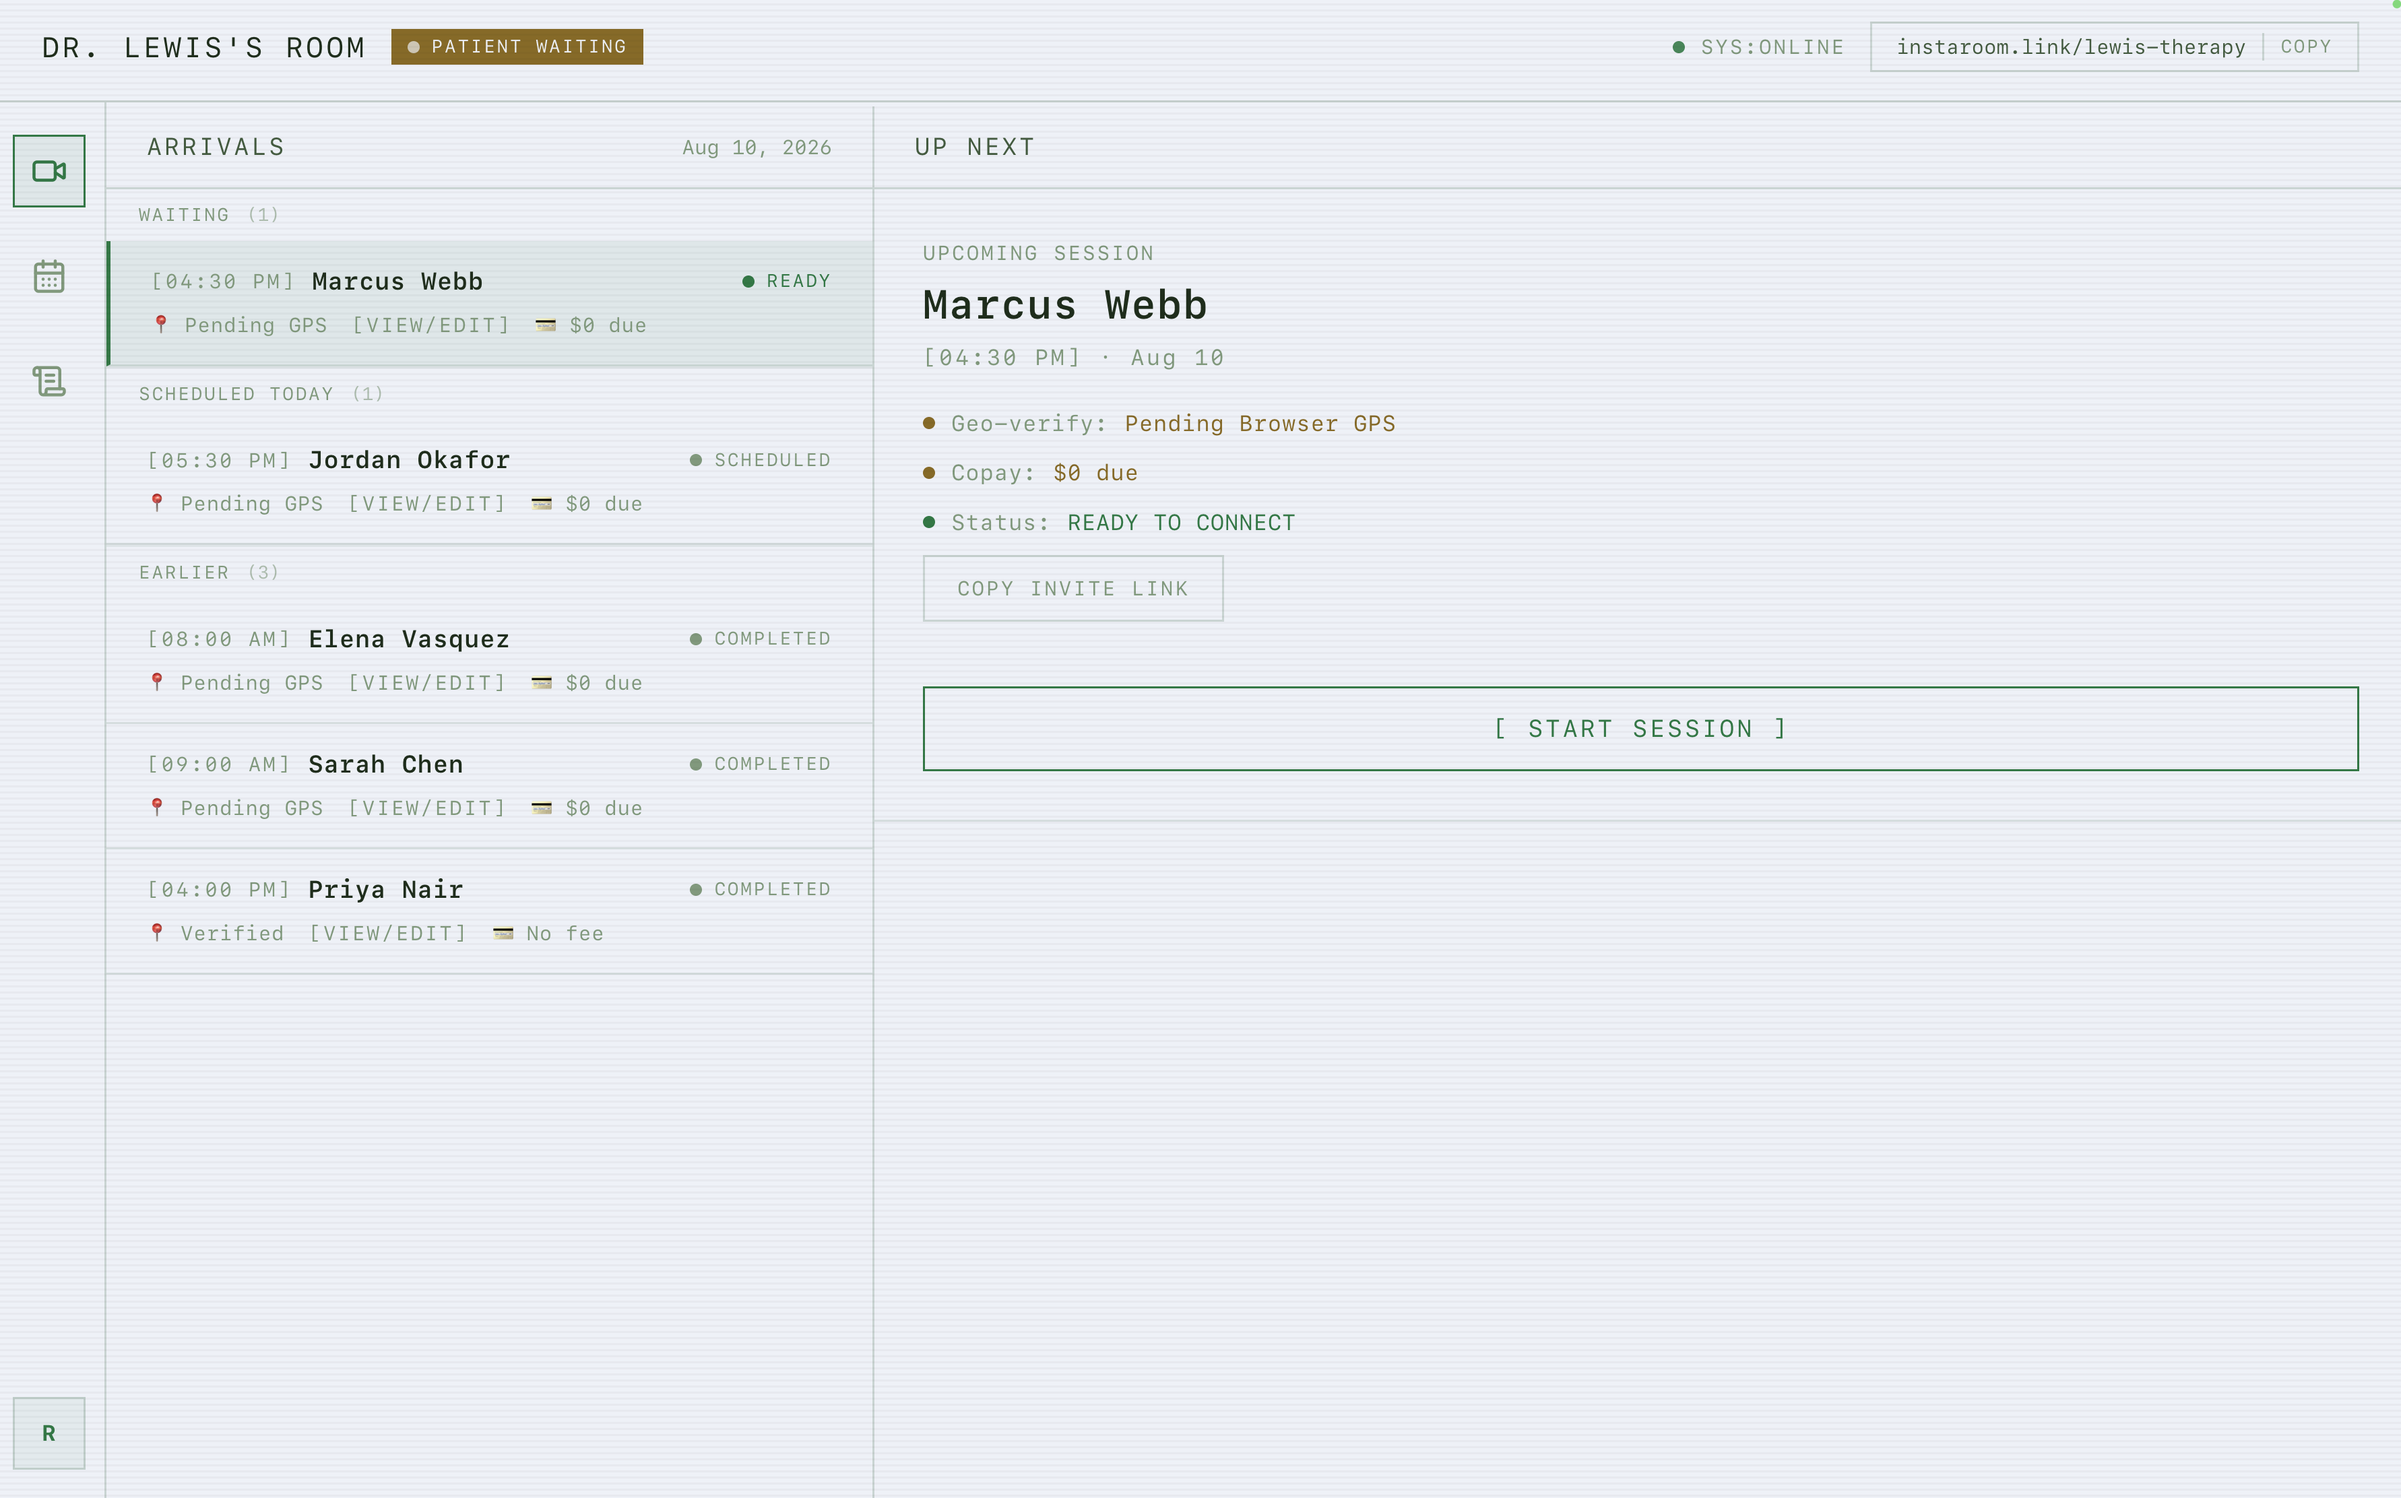
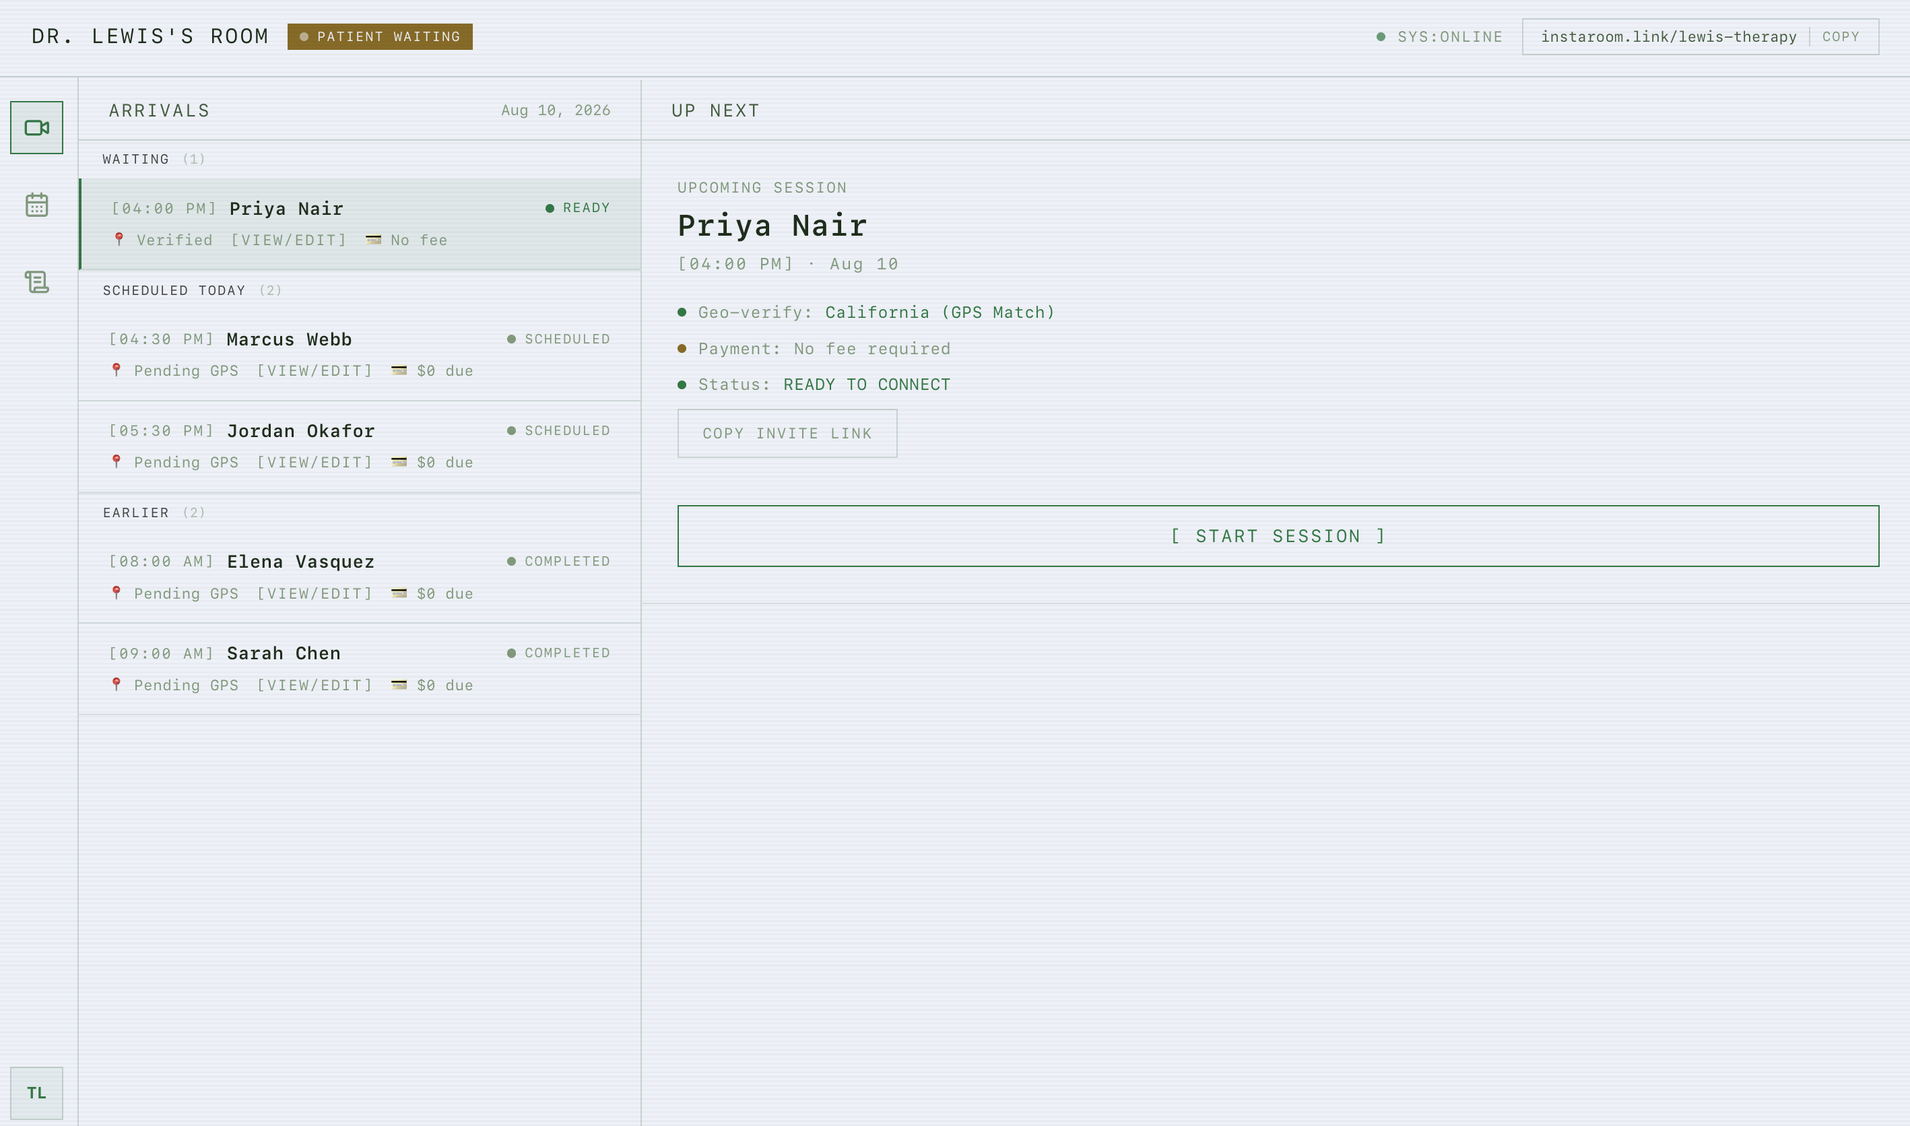
Changed hero img and size

diff --git a/components/hero/HeroSection.tsx b/components/hero/HeroSection.tsx
@@ -71,8 +71,8 @@ export default function HeroSection() {
         <Image
           src="/hero-dash.png"
           alt="InstaRoom dashboard"
-          width={900}
-          height={560}
+          width={104˝˝0}
+          height={650}
           className={styles.heroDash}
           priority
         />
